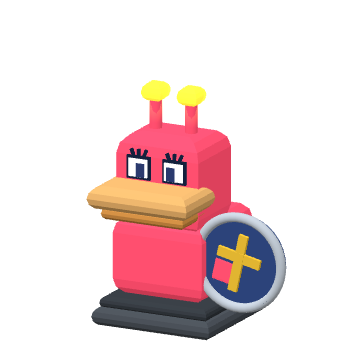
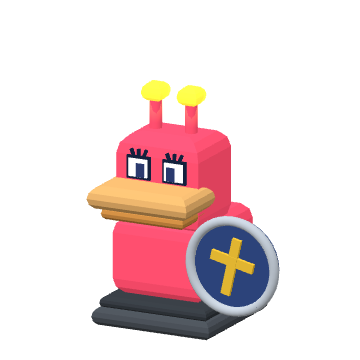
Atelier : la main passe derrière le bouclier ; liste de 60 thèmes à produire

Changed region(s): [[0.4889, 0.5806, 0.7944, 0.8861]]

diff --git a/front/atelier/themes.js b/front/atelier/themes.js
@@ -86,10 +86,10 @@ export const NOUVEAUX = [
     }
   }),
   tenu("bouclier", "Bouclier", (m) => {
-    m.cyl(0.24, 0.24, 0.045, "#334e8c", 0.03, 0.08, 0.05, Math.PI / 2);
-    m.tore(0.235, 0.025, "#cbd5e1", 0.03, 0.08, 0.075);
-    m.box(0.05, 0.3, 0.02, "#ffcf3a", 0.03, 0.08, 0.085);
-    m.box(0.24, 0.05, 0.02, "#ffcf3a", 0.03, 0.11, 0.087);
+    m.cyl(0.24, 0.24, 0.045, "#334e8c", 0.03, 0.08, 0.125, Math.PI / 2);
+    m.tore(0.235, 0.025, "#cbd5e1", 0.03, 0.08, 0.15);
+    m.box(0.05, 0.3, 0.02, "#ffcf3a", 0.03, 0.08, 0.16);
+    m.box(0.24, 0.05, 0.02, "#ffcf3a", 0.03, 0.11, 0.162);
   }),
   tenu("torche", "Torche", (m) => {
     m.cyl(0.035, 0.022, 0.38, "#6b4423", 0, 0.12, 0);

diff --git a/art/accessoires/THEMES.md b/art/accessoires/THEMES.md
@@ -1,0 +1,123 @@
+# Thèmes : 20 faits, 60 proposés
+
+Objectif : 80 thèmes. Méthode : **lister, trier, produire par lots de 10** (planche face et dos à chaque lot), valider,
+puis intégrer au jeu quand le catalogue est assez fourni.
+
+La note est une **estimation avant essai** :
+
+- **A — sûr** : grande silhouette ou couleurs franches, faite de formes simples ; surtout des pièces à assembler.
+- **B — à essayer** : demande des formes nouvelles ou repose sur des détails qui peuvent se perdre en petit.
+- **C — risqué** : formes organiques, détails fins, ou il faudrait presque changer le canard.
+
+Ce qui rend bien jusqu'ici : un couvre-chef bien découpé, une grande cape, un objet en main assez gros. Ce qui rend mal :
+les formes plates, les petits objets, tout ce qui repose sur le visage.
+
+Règles : au plus un accessoire par emplacement (tête, visage, corps, dos, main) ; canard jamais modifié ; sa couleur doit
+rester visible ; aucun personnage, logo ni nom protégé.
+
+## Faits (20)
+
+Chevalier, garde royal, roi, apprenti sorcier, grand mage, capitaine pirate, duel des étoiles, astronaute, ninja *(à
+retravailler)*, viking, roi des mers, pharaon *(à retravailler)*, champion, vacances, nuit d'Halloween, réveillon,
+explorateur, cyber, chat de gouttière, justicier.
+
+## Métiers (10)
+
+| # | Thème | Pièces principales | Note |
+|---|---|---|---|
+| 1 | Pompier | casque (fait), veste à bandes, lance à eau, bouteille au dos | A |
+| 2 | Cuisinier | toque (faite), tablier (fait), poêle | A |
+| 3 | Ouvrier | casque et gilet (faits), marteau | A |
+| 4 | Docteur | blouse, stéthoscope, mallette | B |
+| 5 | Policier | casquette à écusson, uniforme, panneau stop | A |
+| 6 | Facteur | casquette, sacoche, lettre | B |
+| 7 | Jardinier | chapeau de paille (fait), tablier vert, arrosoir | A |
+| 8 | Peintre | béret, palette, pinceau géant | A |
+| 9 | Mineur | casque à lampe, pioche, sac | A |
+| 10 | Pêcheur | bob, canne à pêche, épuisette au dos | B |
+
+## Histoire (10)
+
+| # | Thème | Pièces principales | Note |
+|---|---|---|---|
+| 11 | Samouraï | casque à croissant, armure laquée, sabre, bannière au dos | A |
+| 12 | Gladiateur | casque à crête, plastron, trident, bouclier | A |
+| 13 | Légionnaire | casque à brosse, armure, grand bouclier rectangulaire | A |
+| 14 | Mousquetaire | chapeau à plume, cape, rapière | A |
+| 15 | Archer des bois | capuche, carquois au dos, arc | B |
+| 16 | Homme des cavernes | os dans les antennes, peau de bête, massue | A |
+| 17 | Empereur antique | couronne de laurier, toge, parchemin | B |
+| 18 | Aviateur d'époque | bonnet de cuir, lunettes, écharpe au vent | B |
+| 19 | Shérif | cowboy (fait), étoile, lasso | B |
+| 20 | Scaphandrier | casque en cuivre, bouteilles, harpon | A |
+
+## Fantastique (10)
+
+| # | Thème | Pièces principales | Note |
+|---|---|---|---|
+| 21 | Dragon | cornes, ailes écailleuses, crinière dorsale | B |
+| 22 | Vampire | grande cape à col haut, nœud, chauve-souris en main | A |
+| 23 | Momie | bandelettes sur le corps et la tête | B |
+| 24 | Fée | petite couronne, ailes translucides, baguette (faite) | B |
+| 25 | Elfe | oreilles pointues, capuche feuille, arc | B |
+| 26 | Nécromancien | capuche noire, bâton à crâne, cape déchirée | A |
+| 27 | Ange | auréole et ailes (faites), harpe | A |
+| 28 | Diablotin | cornes rouges, ailes (faites), fourche | A |
+| 29 | Golem de pierre | blocs rocheux sur la tête, le corps et les mains | B |
+| 30 | Licorne | corne dorée, crinière arc-en-ciel | B |
+
+## Science-fiction (10)
+
+| # | Thème | Pièces principales | Note |
+|---|---|---|---|
+| 31 | Robot | tête métal à écran, torse à voyants, clé géante | A |
+| 32 | Extraterrestre | antennes à boules, troisième œil, soucoupe en main | A |
+| 33 | Armure mécanique | épaulières massives, réacteurs, canon | B |
+| 34 | Savant fou | cheveux en bataille, blouse, fiole fumante | B |
+| 35 | Voyageur du temps | lunettes à rouages, haut-de-forme, horloge au dos | B |
+| 36 | Chasseur spatial | casque à visière en T, réacteur (fait), pistolet | A |
+| 37 | Hacker | capuche, visière verte, ordinateur portable | B |
+| 38 | Pilote de course | casque intégral, combinaison à damier, volant | A |
+| 39 | Plongeur des abysses | lanterne frontale, combinaison, hélice | B |
+| 40 | Pixel rétro | accessoires en gros cubes façon jeu vidéo ancien | A |
+
+## Sports et loisirs (10)
+
+| # | Thème | Pièces principales | Note |
+|---|---|---|---|
+| 41 | Footballeur | maillot (fait), bandeau, ballon au pied du socle | B |
+| 42 | Basketteur | bandeau, maillot, gros ballon orange | A |
+| 43 | Boxeur | protège-tête, ceinture, gant géant | A |
+| 44 | Tennis | visière, polo, raquette | A |
+| 45 | Skieur | bonnet (fait), masque de ski, skis au dos | A |
+| 46 | Surfeur | planche au dos, collier de fleurs | A |
+| 47 | Karaté | bandeau, kimono, ceinture | B |
+| 48 | Rockeur | crête, blouson noir, guitare | A |
+| 49 | DJ | casque audio (fait), lunettes, platine | B |
+| 50 | Skateur | casquette à l'envers, planche au dos | A |
+
+## Saisons, fêtes et nature (10)
+
+| # | Thème | Pièces principales | Note |
+|---|---|---|---|
+| 51 | Bonhomme de neige | seau, nez carotte, écharpe, balai | A |
+| 52 | Lutin | bonnet vert à grelot, col pointu, cadeau | A |
+| 53 | Renne | bois, grelot, nez rouge | B |
+| 54 | Pâques | oreilles de lapin, panier d'œufs | A |
+| 55 | Anniversaire | chapeau pointu, ballon (fait), gâteau | A |
+| 56 | Abeille | rayures, petites ailes, pot de miel | B |
+| 57 | Coccinelle | carapace à points au dos | A |
+| 58 | Requin | capuche à dents, aileron au dos | A |
+| 59 | Champignon | grand chapeau rouge à points blancs | A |
+| 60 | Cactus | pot sur la tête, fleur, piquants | C |
+
+## Bilan estimé des 60
+
+La plupart sont en A ou B ; un seul est jugé risqué d'avance. Les essais diront lesquels tiennent vraiment.
+
+## Ordre de production proposé
+
+1. **Lot 1** (les plus sûrs et variés) : samouraï, robot, pompier, vampire, bonhomme de neige, gladiateur, pilote de
+   course, rockeur, requin, champignon.
+2. Lots suivants : le reste des A, puis les B par familles ; abandonner sans regret ce qui ne se lit pas.
+3. À chaque lot : retoucher aussi un ou deux thèmes faibles (ninja, pharaon, tricorne, bulle de l'astronaute).
